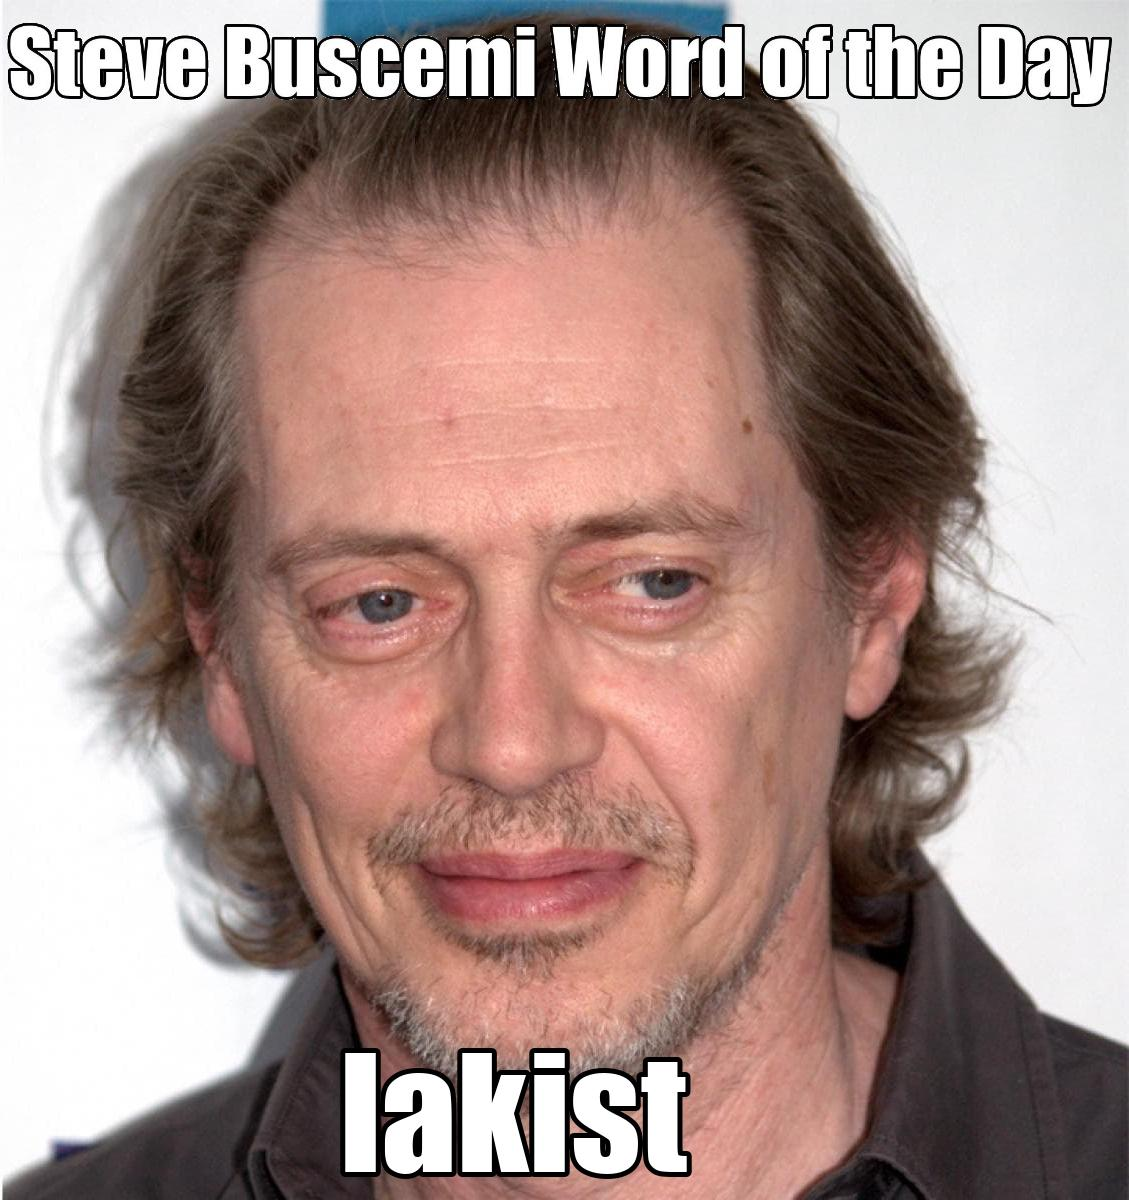
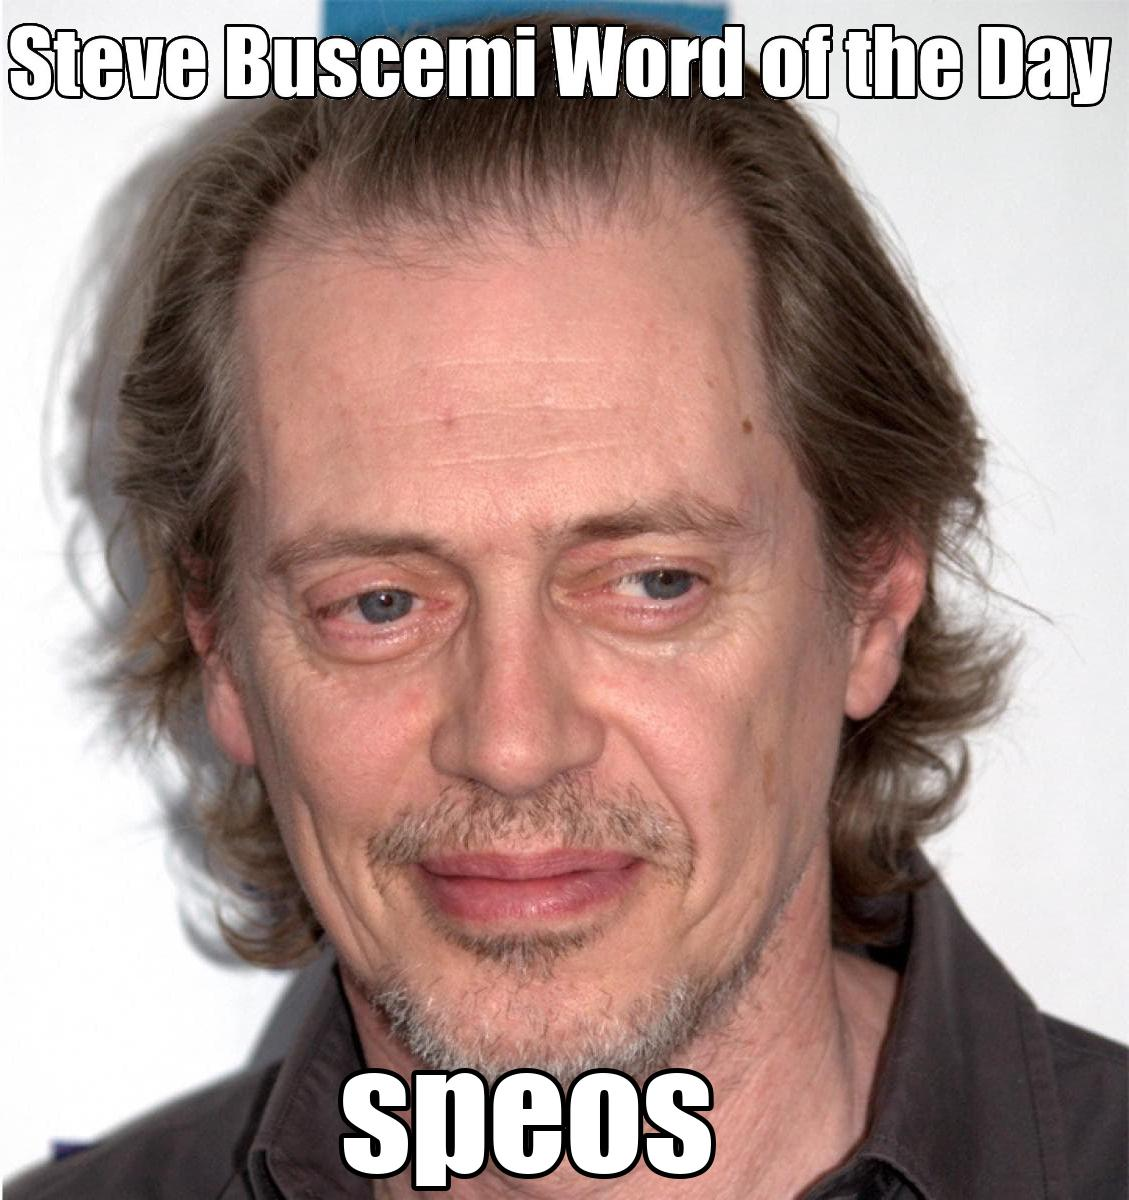
removed RandomWord / Refactoring

Changed region(s): [[0.279, 0.8633, 0.651, 1.0]]

diff --git a/steveBot/tweet/tweet.py b/steveBot/tweet/tweet.py
@@ -6,7 +6,7 @@ from time import sleep
 from schedule import every, run_pending
 from tweepy import OAuthHandler, API, TweepyException
 
-from steveBot.draw_image.draw_image import draw_image, assets_path
+from steveBot.draw_image.draw_image import assets_path, get_word, draw_image
 from steveBot.logger.log_conf import Logger
 
 
@@ -15,7 +15,8 @@ try:
     auth = OAuthHandler(environ.get('consumer_key'), environ.get('consumer_secret'))
     auth.set_access_token(environ.get('access_token'), environ.get('access_token_secret'))
 except TypeError as e:
-    Logger.log.exception(str(e) + '\nPlease make sure your environment variables are set properly and try again.'), exit()
+    Logger.log.exception(str(e) + '\nPlease make sure your environment variables are set properly '
+                                  'and try again.'), exit()
 
 # Create API object
 api = API(auth)
@@ -33,11 +34,11 @@ def authenticate():
         return False
     except TweepyException as err:
         if 89 in err.api_codes:
-            Logger.log.exception(str(err) + '\n' + 'Error 401: Unauthorized. Please make sure your keys/credentials are correct and '
-                                            'try again.')
+            Logger.log.exception(str(err) + '\n' + 'Error 401: Unauthorized. Please make sure your keys/credentials '
+                                                   'are correct and try again.')
         if 32 in err.api_codes:
-            Logger.log.exception(str(err) + '\n' + 'Error 215: Bad Authentication data. Please make sure your keys/credentials are '
-                                            'correct and try again.')
+            Logger.log.exception(str(err) + '\n' + 'Error 215: Bad Authentication data. Please make sure your '
+                                                   'keys/credentials are correct and try again.')
 
 
 # If the Tweet is longer than 280 characters, strip it and replace with the designated characters
@@ -49,13 +50,17 @@ def tweet_strip(tweet_text):
 # Call the draw_image function, then tweet the image and the corresponding
 # word in the body of the tweet
 def tweet():
-    word, word_def = draw_image()
+    # Append the text to the image
+    draw_image()
+    gw = get_word()
+    word, word_def = gw['word'], gw['word_def']
     # Instantiate dictionary to look up definition of the word
     image = assets_path + '/assets/steve2.jpg'
-    status_text = f'The word of the day is {word}: {word_def}'
+    status_text = 'The word of the day is %s: %s' % (word, word_def)
     status = tweet_strip(status_text)
     # Tweet image with the corresponding status
     api.update_status_with_media(status=status, filename=image)
+    Logger.log.info('The word of the day is %s' % word)
     Logger.log.info('Tweet has been sent! See you in 24h.')
 
 
@@ -77,7 +82,8 @@ every().day.at(tweet_time).do(tweet)
 # If executed twice within the 24 hour interval, it will notify the user how to proceed.
 try:
     # Informs the user upon running the script how many minutes are left before the next tweet is sent
-    Logger.log.info(f'There is {time_left()} minutes until the next tweet is sent. Sit tight!') if authenticate() else exit()
+    Logger.log.info('There is %s minutes until the next tweet is sent. Sit tight!' % time_left()) if authenticate() \
+        else exit()
     # While the authentication function is true, run the tweet function every 1s
     while True:
         run_pending()
@@ -87,5 +93,5 @@ except TweepyException as err:
     if 120 in err.api_codes:
         Logger.log.exception(str(err) + '\n' + 'Error 186: Tweet needs to be a bit shorter.')
     if 187 in err.api_codes:
-        Logger.log.exception(str(err) + '\n' + 'Error 187: Duplicate tweet detected. Please wait 24 hours before executing again, '
-                                        'or just delete the newest tweet.')
+        Logger.log.exception(str(err) + '\n' + 'Error 187: Duplicate tweet detected. Please wait 24 hours before '
+                                               'executing again, or just delete the newest tweet.')

diff --git a/steveBot/draw_image/draw_image.py b/steveBot/draw_image/draw_image.py
@@ -1,8 +1,9 @@
-from os import path
+from os import path, getenv
 from time import sleep
 from json import loads
+from urllib.request import urlopen
+
 from PIL import Image, ImageFont, ImageDraw
-from random_word import RandomWords
 
 from steveBot.logger.log_conf import Logger
 
@@ -13,12 +14,11 @@ assets_path = '.' if path.isfile('/steveBot/__main__.py') else '..'
 
 # Function for getting the word of the day from the RandomWords library and its definition
 def get_word():
-    dict_word = RandomWords()
-    word_grab = loads(dict_word.word_of_the_day())
-    for _ in word_grab:
-        dict_word = word_grab['word']
-        dict_def = word_grab['definations'][0]['text']
-        return dict_word, dict_def
+    req = urlopen('https://api.wordnik.com/v4/words.json/wordOfTheDay?api_key=%s' % getenv('wordnik_api_key'))
+    res = loads(req.read().decode(req.info().get_param('charset') or 'utf-8'))
+    word = res['word']
+    word_def = res['definitions'][0]['text']
+    return {'word': word, 'word_def': word_def}
 
 
 # Gets width of text and adjusts accordingly so it is not cut off
@@ -49,33 +49,22 @@ def get_width(width):
 # Saved as steve2.jpg, returns the word for use in the tweet status
 def draw_image():
     # Calls the get_word function
-    word, def_word = get_word()
-    while True:
-        try:
-            # Open an Image
-            img = Image.open(assets_path + '/assets/steve.jpg')
+    gw = get_word()
+    word = gw['word']
+    # Open an Image
+    img = Image.open(assets_path + '/assets/steve.jpg')
 
-            # Call draw Method to add 2D graphics in an image
-            img_1 = ImageDraw.Draw(img)
-            w, h = img_1.textsize(word)
-            Logger.log.info('Width: ' + str(w) + ' height: ' + str(h))
+    # Call draw Method to add 2D graphics in an image
+    img_1 = ImageDraw.Draw(img)
+    w, h = img_1.textsize(word)
+    Logger.log.info('Width: %s Height: %s' % (str(w), str(h)))
 
-            # Add text to an image
-            font_path = assets_path + '/assets/fonts/impact.ttf'
-            font = ImageFont.truetype(font_path, 150)
-            height = get_width(w)
-            # Checks for (almost) centering the image depending on the length of the text
-            img_1.text((height, 1020), word, fill='white', font=font,
-                       stroke_width=5, stroke_fill='black')
-            # Save the edited image
-            img.save(assets_path + '/assets/steve2.jpg')
-        # If typeError is thrown, get another random word
-        # This is a workaround for the library itself, there is no fix as of late
-        except TypeError as e:
-            Logger.log.info(str(e) + '\n' + 'Restarting!')
-            sleep(1)
-            word = get_word()
-            continue
-        else:
-            break
-    return word, def_word
+    # Add text to an image
+    font_path = assets_path + '/assets/fonts/impact.ttf'
+    font = ImageFont.truetype(font_path, 150)
+    height = get_width(w)
+    # Checks for (almost) centering the image depending on the length of the text
+    img_1.text((height, 1020), word, fill='white', font=font,
+               stroke_width=5, stroke_fill='black')
+    # Save the edited image
+    img.save(assets_path + '/assets/steve2.jpg')

diff --git a/steveBot/logger/log_conf.py b/steveBot/logger/log_conf.py
@@ -4,8 +4,9 @@ from sys import stdout
 # One-line lambda wrapper for the singleton design pattern
 singleton = lambda c: c()
 
+
 @singleton
-class Logger():
+class Logger:
     def __init__(self):
         # Setup logger
         basicConfig(stream=stdout, level=INFO)

diff --git a/README.md b/README.md
@@ -2,7 +2,6 @@
 
 [![Twitter Badge](https://img.shields.io/badge/-@SteveBWOTD-00acee?style=flat-square&logo=Twitter&logoColor=white)](https://twitter.com/intent/follow?screen_name=SteveBWOTD "Follow on Twitter")
 [![PyPI](https://img.shields.io/pypi/v/tweepy?logo=python&label=tweepy&style=flat-square&color=FFD43B)](https://pypi.org/project/tweepy/)
-[![PyPI](https://img.shields.io/pypi/v/Random-Word?logo=python&label=Random-Word&style=flat-square&color=FFD43B)](https://pypi.org/project/Random-Word/)
 [![PyPI](https://img.shields.io/pypi/v/Pillow?logo=python&label=Pillow&style=flat-square&color=FFD43B)](https://pypi.org/project/Pillow/)
 
 A Twitter bot that tweets a Steve Buscemi word of the day.
@@ -11,7 +10,7 @@ A Twitter bot that tweets a Steve Buscemi word of the day.
 
 ### With Docker
 
-`sudo docker run -it -e consumer_key=<YOUR_KEY> -e consumer_secret=<YOUR_KEY> -e access_token=<YOUR_KEY> -e access_token_secret=<YOUR_KEY> -e time_of_day=00:00 ghcr.io/ejach/stevebot:latest`
+`sudo docker run -it -e consumer_key=<YOUR_KEY> -e consumer_secret=<YOUR_KEY> -e access_token=<YOUR_KEY> -e access_token_secret=<YOUR_KEY> -e time_of_day=00:00 -e wordnik_api_key=<YOUR_KEY> ghcr.io/ejach/stevebot:latest`
 
 #### Docker Compose
 ```yaml
@@ -26,6 +25,7 @@ services:
         - consumer_secret=<consumer_secret>
         - access_token=<access_token>
         - access_token_secret=<access_token_secret>
+        - wordnik_api_key=<api_key>
       restart: unless-stopped
 ```
 
@@ -33,7 +33,7 @@ services:
 
 - Clone the repository
 - Install the requirements using `pip3 install -r requirements.txt`
-- Edit the `.env` file with your twitter tokens and API keys ([reference](https://developer.twitter.com/en/docs/twitter-api/getting-started/about-twitter-api))
+- Edit the `.env` file with your [Twitter tokens](https://developer.twitter.com/en/docs/twitter-api/getting-started/about-twitter-api) and [Wordnik API key](https://developer.wordnik.com/)
 - Start the program by running `python3 main.py`
 - Go crazy
 
